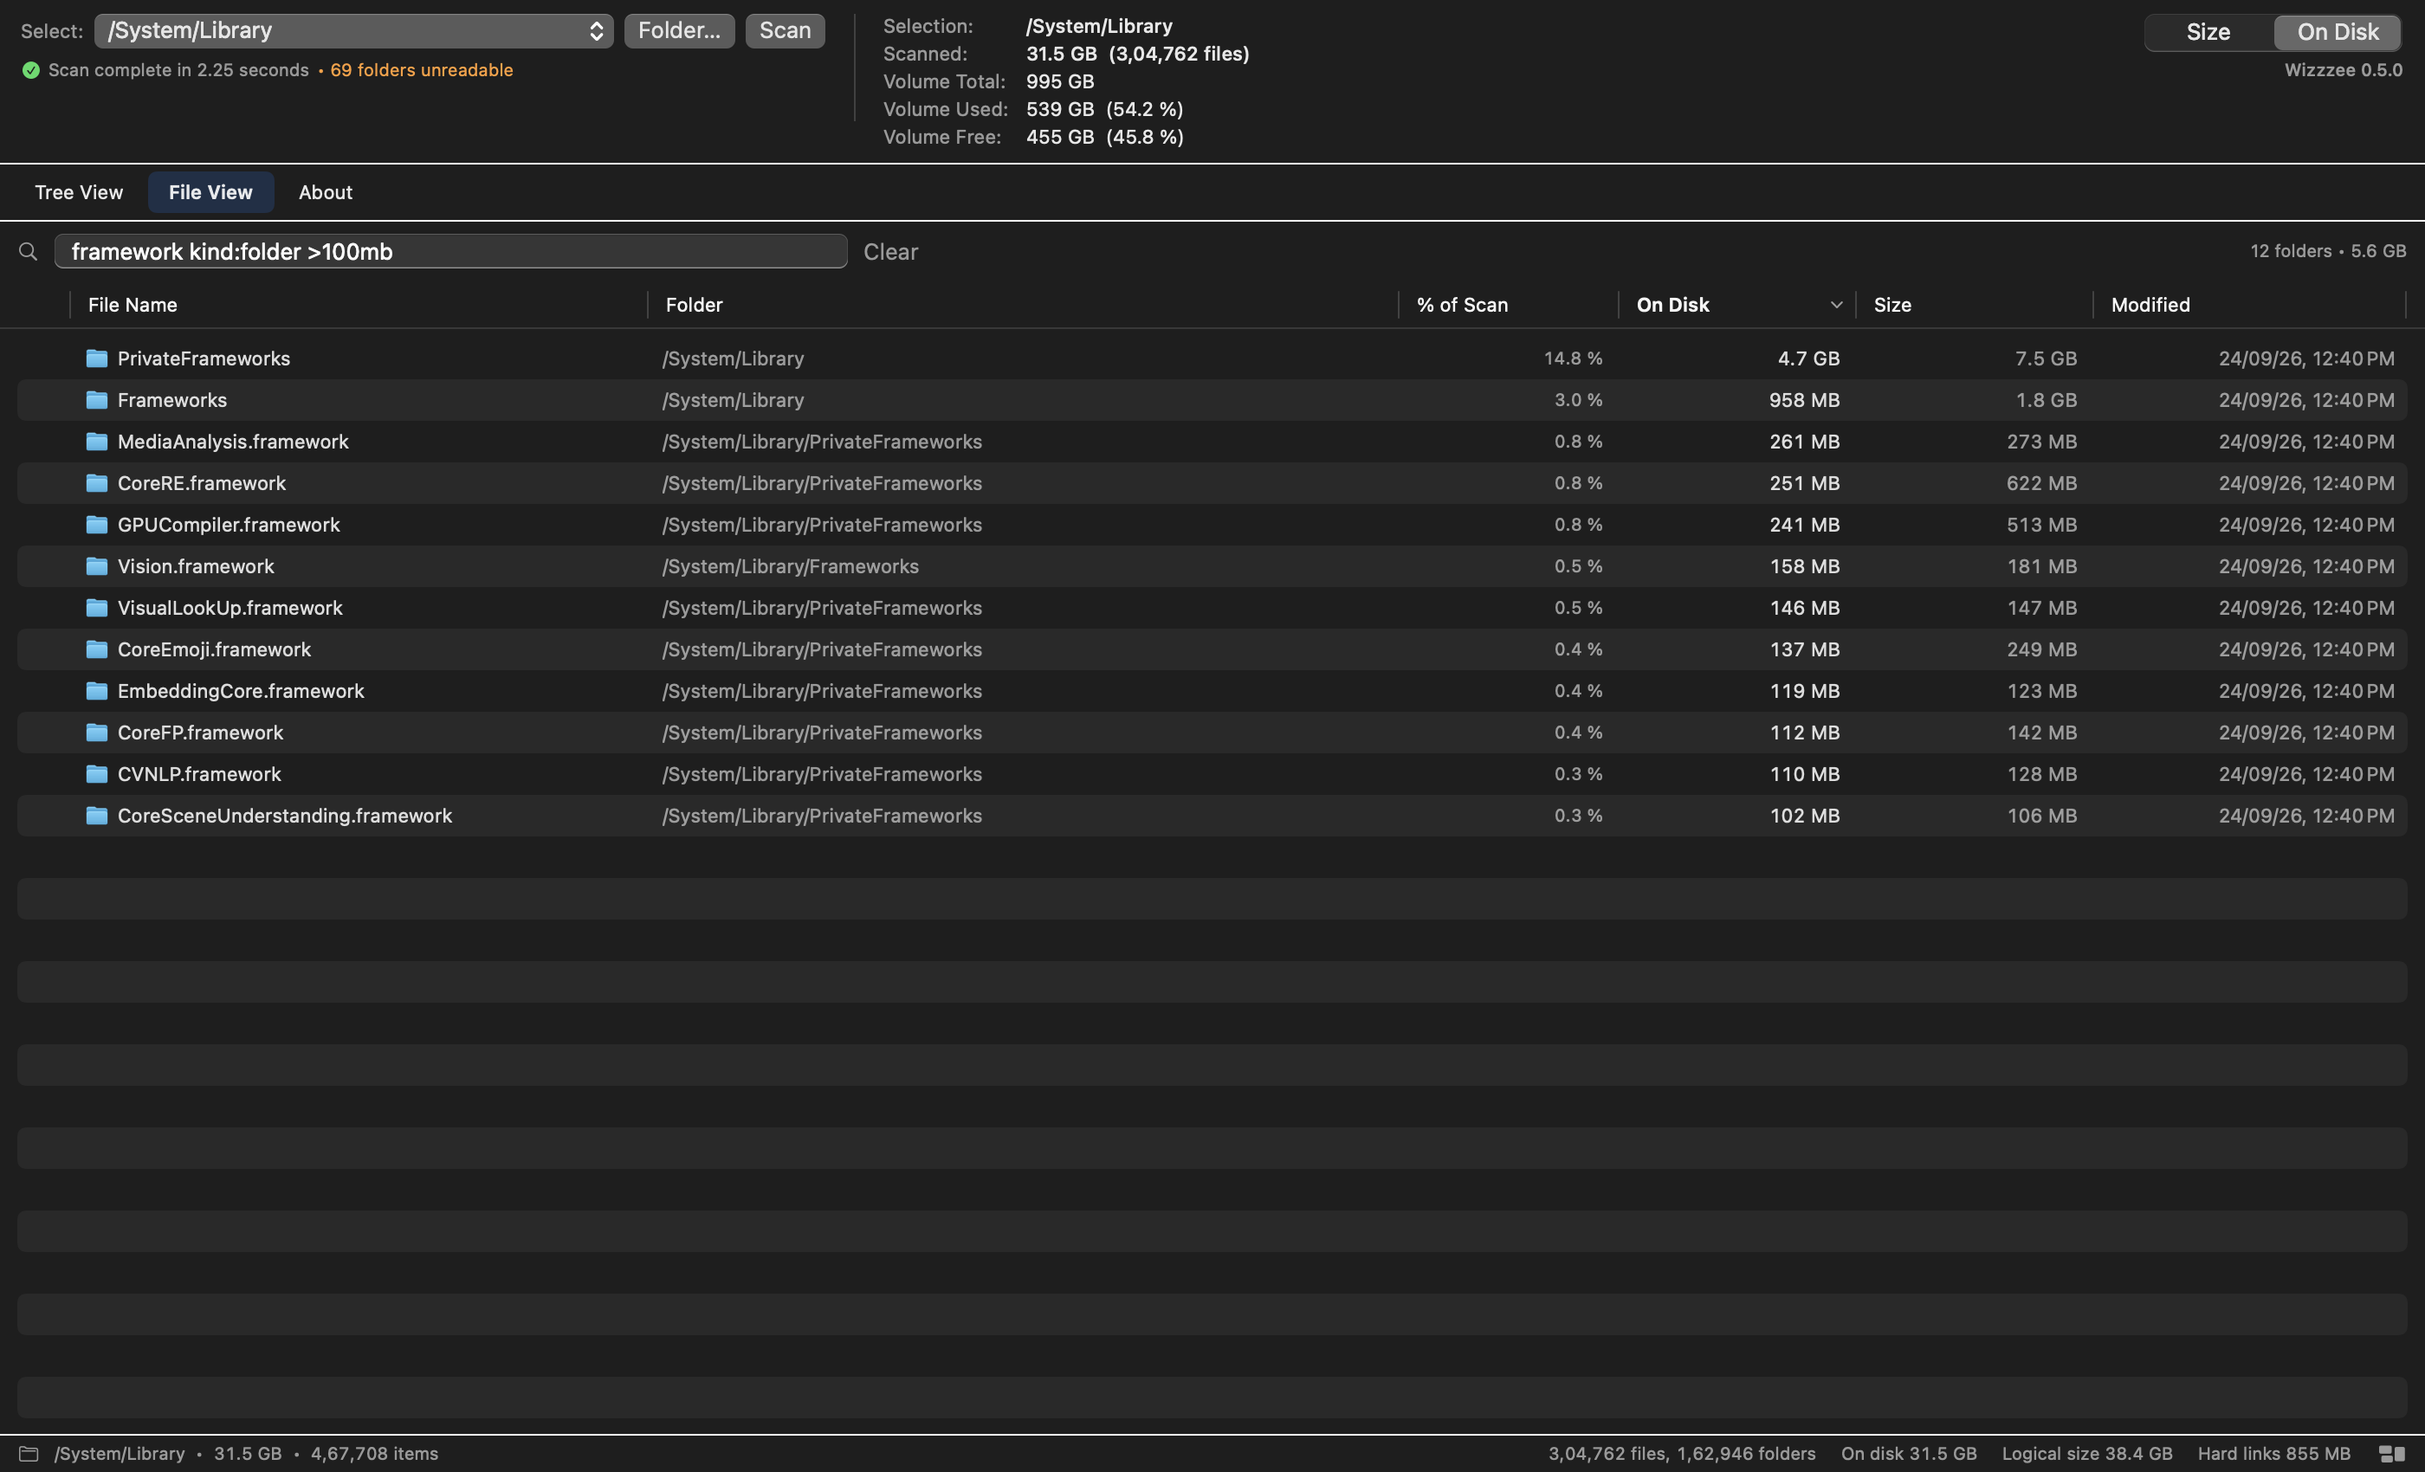
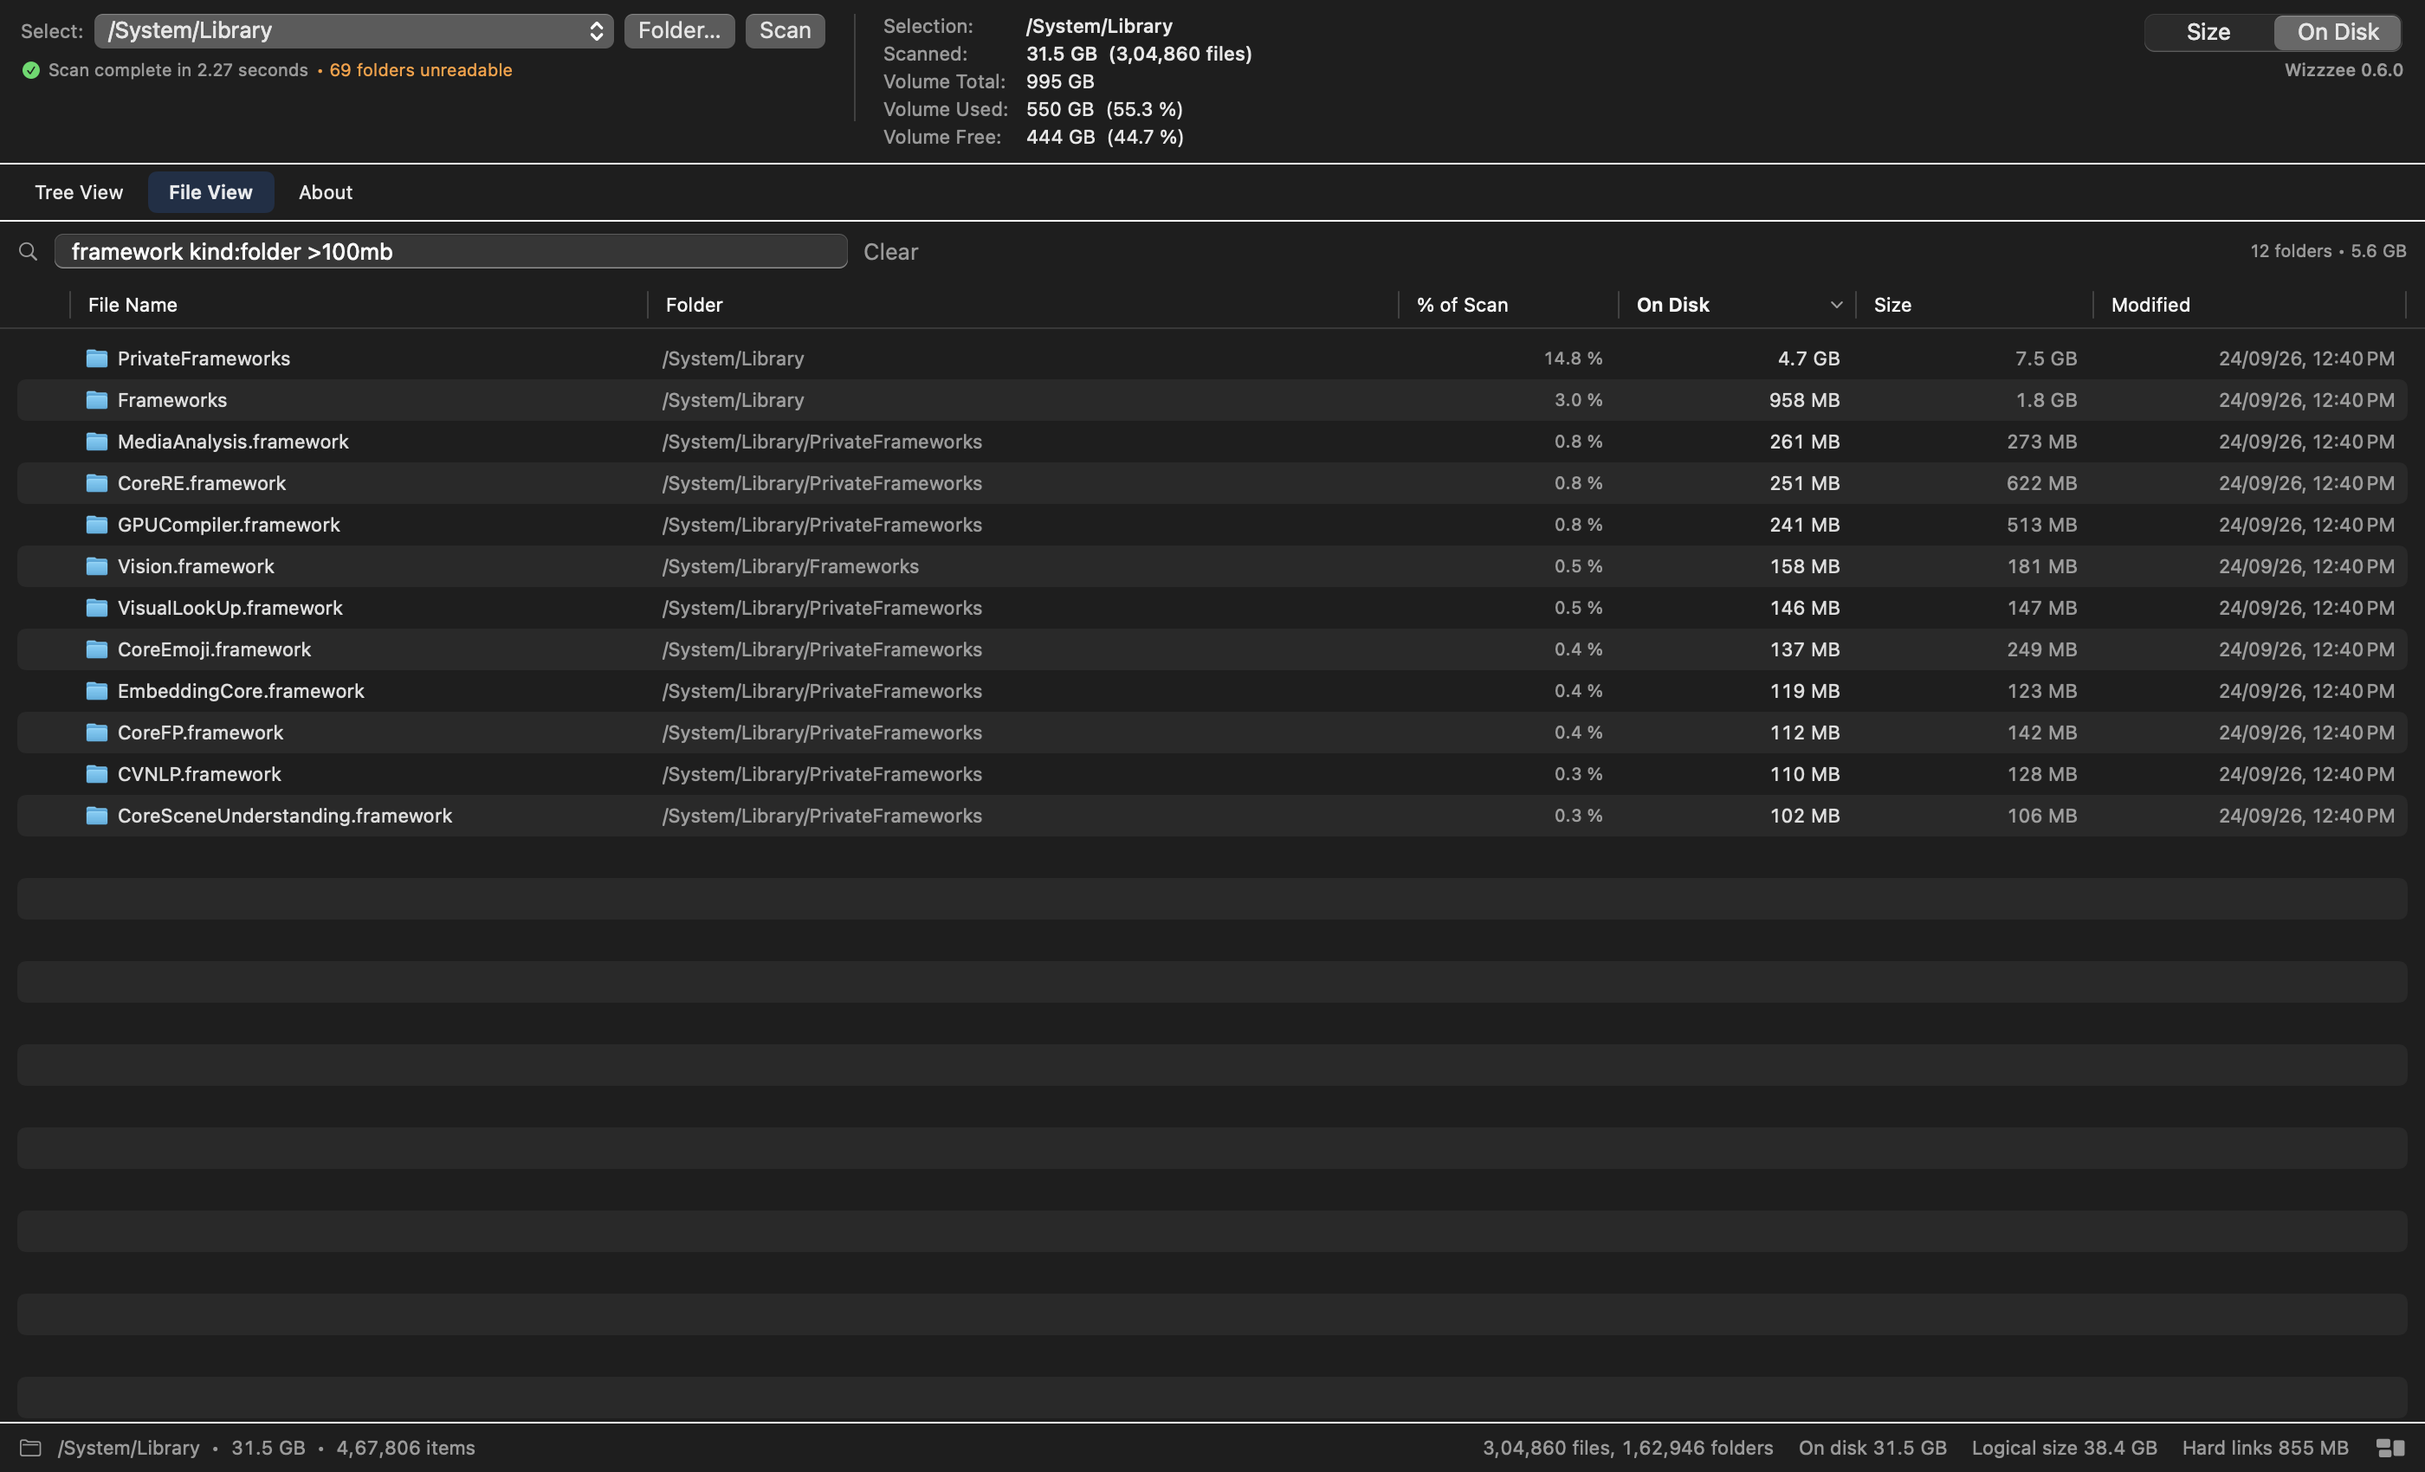
Release 0.6.0
Version 0.6.0, build 13, and the release notes for it.

Two changes since 0.5.0, both from watching someone use the app for the
first time: what is marked, and the buttons that remove it, in a bar
across the foot of the window from the first mark (#44); and a guide to
the app that opens with it the first time, and stays in the Help menu
(#45).

And one fix to 0.5.0 that the last click-through found (#47): in the
build that ships, a click on a row did not give its table the keyboard,
so the arrow keys and Space did nothing until Tab had been pressed.

README: every screenshot is redrawn from this build, which has the taller
status bar and the bar for the marks, and the count of checks catches up
with the checks.

diff --git a/docs/releases/v0.6.0.md b/docs/releases/v0.6.0.md
@@ -1,0 +1,97 @@
+# Wizzzee 0.6.0
+
+Wizzzee is a disk space analyzer for macOS in the shape of [WizTree](https://diskanalyzer.com/): a folder tree with sizes, a list of the biggest files, and a colored treemap you can click into. It scans a full startup disk — around 3.9 million files — in roughly 15 seconds.
+
+**This release is about the first five minutes.** Both changes in it come from watching someone use the app for the first time. They ticked three boxes and could not find what to do with them until the corner of the window was pointed out. And most of what the app can do — that `Space` marks a row, that the filter reads `>1gb older:1y`, that `⌘Z` brings back what went to the Trash — was written down in a README they had not read.
+
+## What is marked, and what to do with it, across the foot of the window
+
+Marking was the part of the app that asked the most of someone new. The count of what was marked was a chip in the smallest type in the window, at the bottom left, and **Move to Trash** and **Delete…** were in a list that the chip had to be clicked to open.
+
+From the first mark a bar now runs across the window, above the status bar and on every tab:
+
+- **how many things are marked**, and the space on disk that removing them gives back;
+- **Move to Trash**, **Delete…** and **Clear Marks** for the lot, with nothing to open first;
+- **Show List**, which opens the list of marked items above the bar and leaves the bar where it was, so the button that opened the list is the one that shuts it.
+
+It arrives lit and fades to a tint, so it is seen arriving by someone whose eyes are on a checkbox at the other end of the window. **Move to Trash** is the one put forward, since it is the one `⌘Z` takes back; it moves without asking, as it did from the list, and **Delete…** still asks.
+
+The list is a row for each mark, with its size, where it is, and a way to take the mark back off. In a short window a long list scrolls instead of taking the room the rest of the window needs.
+
+The status bar under it is set in the size the tables are, a point larger than it was, and is one height whatever is in it: it used to grow a few points whenever **Undo** or **Stop** was showing, and move everything above it.
+
+## A guide, the first time you open it
+
+The first time Wizzzee is opened it now puts up a guide over the window. Seven pages, one for each part of the app:
+
+| Page | What it covers |
+| --- | --- |
+| Start with a Scan | choosing a volume or a folder, Scan and Stop, a rescan that keeps your place, Full Disk Access |
+| Tree View | opening folders, sorting, Size against On Disk, File Types |
+| Treemap | selecting, zooming in and back out along the path, marking with `⌘`-click, hiding the map |
+| File View and Search | names, `>1gb`, `older:1y`, `ext:dmg`, `kind:folder`, and the count of what was found |
+| Look Before Removing | Quick Look, the right-click menu, double-click, the notes beside a name |
+| Mark and Remove | marks, the bar, Move to Trash and Delete…, Undo, the Finder keys, what can't be removed |
+| Keyboard Shortcuts | every key the app answers, under five headings |
+
+Each of the first six has a picture of that part of the window, drawn small, with a numbered dot on each thing worth knowing; a map of the window with the part lit, and where it is in words; and a card for every number, saying what can be done there and on which keys.
+
+- **Don't show this again**, at its foot, stops it opening with the app. Until that is ticked it opens once each launch.
+- It stays under **Help ▸ Welcome to Wizzzee**, on two buttons in the About tab, and on `⌘/`, which opens it at the shortcuts.
+- `Return` and `→` turn the page, `←` turns back, `Esc` shuts it, and the list at the left goes to any page.
+- While it is up, the menus' keys are off. The guide names `⌘⌫` and `⌘R` to someone who cannot see the window behind it, and neither does anything until it is shut.
+
+If you are upgrading you will see it once too. Everything in it is news to someone who never had a guide.
+
+## Also fixed
+
+- **A click on a row left the keyboard behind.** In 0.5.0, on current macOS, a click selected a row and the keys then did nothing to it until `Tab` had been pressed: `↑` and `↓` did not move the selection, `→` and `←` did not open or shut a folder, `Space` did not mark, and `Esc` in File Types did not let go of the type. A table that is clicked now has the keyboard, as tables do everywhere else on the Mac. Everything the guide says about those keys depends on it.
+- **A row brought into view could slide the table sideways.** In a window at its narrowest the tree's table has less room than its columns take, and scrolls sideways as well as down. A tile clicked on the treemap, or a line clicked in the list of marks, brought the row to the middle of the table both ways: the rows moved left under headers that stayed put, and the checkboxes and the start of every name went off the edge. That was in 0.5.0. The row is still brought half-way down, and the table is left where it was across.
+
+## Keys
+
+| Key | What it does |
+| --- | --- |
+| `⌘/` | The guide, at its page of keyboard shortcuts |
+| `Return` `→` `←` `Esc` | In the guide: next page, next, back, shut |
+
+## Limits
+
+- The guide opens with the app until **Don't show this again** is ticked. Shutting it is not asking it to stay away.
+- **Help ▸ Welcome to Wizzzee has no key.** `⌘?` is the one a Help item is given, and macOS takes it to open the Help menu — where the item is.
+- The guide can't be opened while a removal is running: it would cover the status bar, which is where **Stop** is.
+- `Return` turns the guide's pages, and in the window behind it `Return` is **Scan**, as it always is. One press too many on the last page starts a scan.
+- The guide's pictures are drawings of the window, not photographs of it, and show a disk that is not yours.
+- A plain multiple selection — several rows picked with Shift or `⌘`, none of them ticked — still has its two buttons at the top right, under **Size / On Disk**. Only marks have the bar.
+- In a window at its shortest, with the treemap showing, the list of marks is about six rows high and scrolls. It takes its full ten from a window about 750 points high.
+
+## Installing
+
+Download `Wizzzee-0.6.0-macos-universal.zip` below, unzip it, and move `Wizzzee.app` to Applications, replacing the old one.
+
+- **First launch.** The app is not notarized, so macOS blocks it the first time. Open it once, dismiss the warning, then go to **System Settings → Privacy & Security** and click **Open Anyway**. macOS asks only once.
+- **Full Disk Access has to be granted again.** macOS ties that permission to the exact build, so the grant from an earlier version does not carry over. In **System Settings → Privacy & Security → Full Disk Access**, remove the old Wizzzee entry and add the new app. Without it, Mail, Messages, Safari and other users' folders are skipped and the totals read low.
+
+It runs on macOS 14 or newer, on Apple silicon and Intel.
+
+## Internal
+
+**The bar** is the old list's header moved out from under a click, and the chip gone. The one piece of new machinery is the list's height. It used to be as tall as its rows up to 220 points, with the buttons inside that; with the buttons in a bar of their own and a taller status bar, a long list no longer fitted a window at its shortest. The stack would not share the room out — the tree and the treemap are an AppKit split, which takes the least it will do with whatever it is offered and draws over the tabs above it to get it — so the window's height is measured and the list is given what that height can spare.
+
+**The guide** is a sheet. Its pictures are drawn in SwiftUI from the app's own colours and the treemap's own palette, so there is no image to ship or to keep in step with the app, and they follow light and dark. Whether it opens with the app is one stored value, `showsWelcome`, which `--prefs` reports; `--uishot --welcome N` draws any page of it.
+
+This release is two changes. Each went through the same two checks before it was merged.
+
+Each was driven by hand in the built app — a copy stamped like the release build, under preferences of its own, against a throwaway disk image, with every removal checked on disk — by the model that wrote it, through the real pointer and keyboard. That found what no test had. A row brought into view slid a narrow table sideways, and had since 0.5.0. The status bar changed height when **Undo** appeared. With the guide open, `⌘R` ran a scan and `⌘2` changed the tab behind it. And `⌘?`, the key first given to the guide, opened the Help menu instead. It also overturned a fix: the first cure for a long list of marks in a short window drew correctly off screen and wrongly in the app, where the tree was drawn across the tabs.
+
+A second model reviewed each one, and every finding was checked against the code before anything was changed. On the bar: four findings, all four real — the long list among them — and approved on the second pass. On the guide it was asked above all to read every sentence against what the app does, and most of its eighteen findings were sentences that were not quite true: that a tile clicked on the map always scrolls the tree to its row, that `Esc` empties the filter from anywhere, that a double-click on the map shows a file in Finder. Four more came on later passes. Twenty were acted on. One, rated the most serious — that **Edit ▸ Undo** stays live under the guide — was tried in the built app and does not happen: the item is disabled while the guide is up, and `⌘Z` leaves the Trash alone. One was agreed with and left: the check on the guide's text holds its numbers and its keys to each other, and cannot tell a true sentence from a false one.
+
+The build check caught one more. A new test made its window taller to watch the list of marks take the room, and the build machine's screen is shorter than the window it asked for: AppKit holds a window with a title bar to the height of the screen.
+
+Then the release was read whole — the difference from 0.5.0, as one piece — by a third model, for what the two changes do to each other and to what was already there. Its verdict was to ship: it found no way for the release to remove something that was not asked for, and raised seven small things. Three were acted on. The guide could be opened over a removal that was under way, covering its **Stop**; a check that claimed to measure the window at its fullest did not always; and the README counted four numbers on a picture that has six. Four were left, each with the reason written down; one of them, about `Return`, is among the limits above.
+
+Last, every feature was clicked through once more on a build stamped like the one that ships, and the most useful finding of the release came out of that, about the release before it. A build made on a developer's Mac says it was made against an older SDK than the released one does, and the system treats the two differently. Stamped like the release, a click on a row left the keyboard with the window — and so did 0.5.0, downloaded and run the same way. That is the fix listed first under *Also fixed*. It was then reviewed like any other change.
+
+The same difference had two of the new checks passing on the build machine and failing in the bundle it built. They looked for the bar's buttons among AppKit's, and in the released build SwiftUI draws its buttons without any. The checks now ask the views where they have been put, and were run under both stamps before this was tagged.
+
+The self-test grew from 714 checks to 759. The new ones put the real window together off screen and ask it what it is showing: that the first mark puts four buttons under the table, that a long list of marks in the shortest window leaves every button inside it, that a row revealed in a table too narrow for its columns leaves the table where it was across, that a click on a row gives its table the keyboard, and that the guide comes up as a sheet when asked for and at no other time.

diff --git a/README.md b/README.md
@@ -291,7 +291,7 @@ dist/Wizzzee.app/Contents/MacOS/Wizzzee --selftest
 ```
 
 `--selftest` builds a throwaway tree with known contents and checks the scanner
-and both delete paths against ground truth — 714 checks, no permissions needed.
+and both delete paths against ground truth — 759 checks, no permissions needed.
 CI runs it on every push, along with a universal-binary and signature check.
 
 ## Releasing
